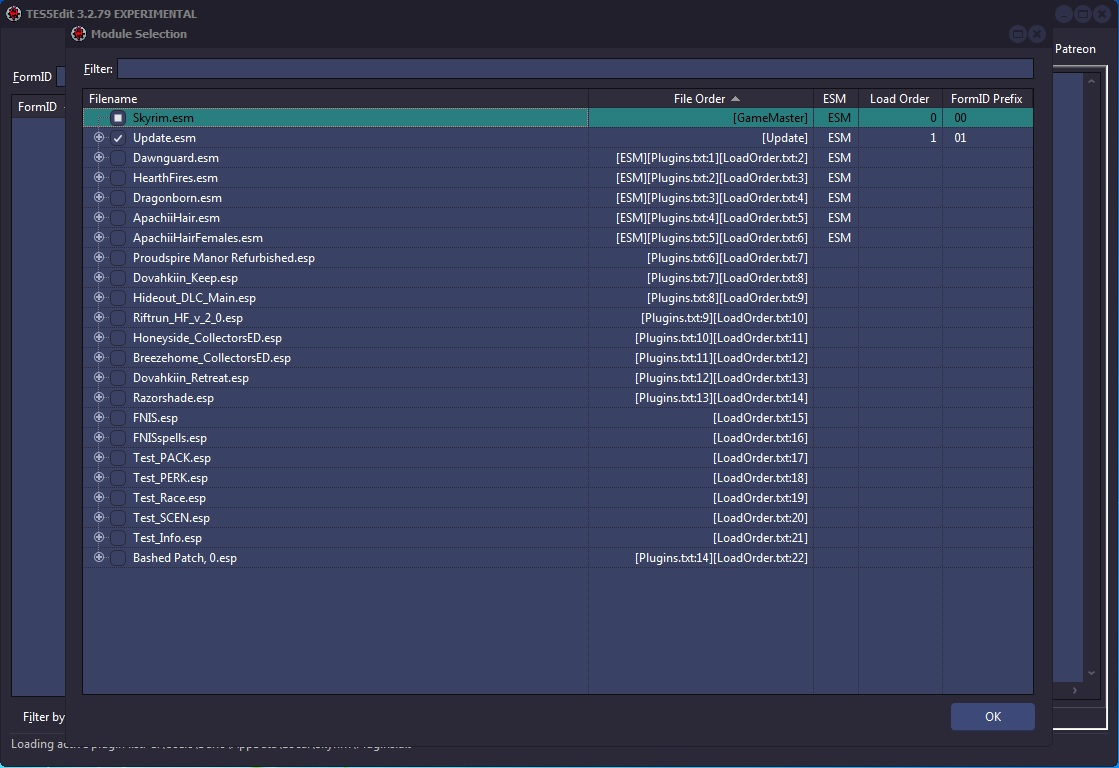
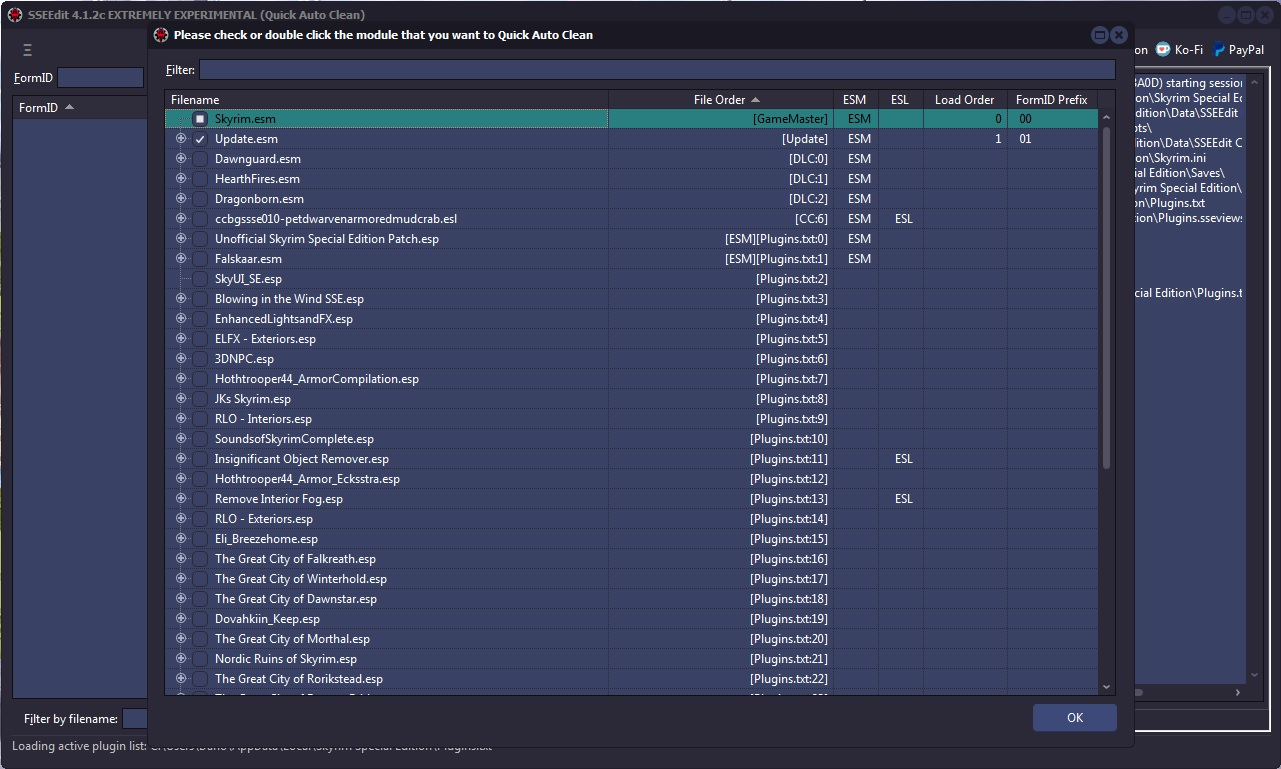
Updated cleaning process

Changed region(s): [[0.0, 0.0, 1.0, 1.0]]

diff --git a/5-mod-cleaning-and-error-checking.html b/5-mod-cleaning-and-error-checking.html
@@ -34,25 +34,33 @@ title: xEdit Cleaning and-Error Checking
             <li>
                 <a href="#s_5-3">5.3 Mod Cleaning Process</a>
                 <ul class="third">
-                    <li><a href="#s_5-3-1">5.3.1 Quick Clean Method</a></li>
-                    <li><a href="#s_5-3-2">5.3.2 Quick Auto Clean Method (Recomended)</a></li>
-                    <li><a href="#s_5-3-3">5.3.3 Sorting Master File Load Orders</a></li>
-                    <li><a href="#s_5-3-4">5.3.4 Using Clean Masters to purge un-used Master File References</a></li>
-                    <li><a href="#s_5-3-5">5.3.5 Listing Master File References from a Specific Plugin</a></li>
+                    <li><a href="#s_5-3-1">5.3.1 Choosing a cleaning method</a></li>
+                    <ul class="fourth">
+                        <li><a href="#s_5-3-1-1">5.3.1.1 Cleaning using a shortcut</a></li>
+                        <li><a href="#s_5-3-1-2">5.3.1.2 Cleaning renaming the EXE</a></li>
+                        <li><a href="#s_5-3-1-3">5.3.1.3 Cleaning using MO2</a></li>
+                        <li><a href="#s_5-3-1-4">5.3.1.4 Cleaning using Vortex</a></li>
+                    </ul>
+                    <li><a href="#s_5-3-2">5.3.2 Selecting a plugin to clean</a></li>
+                    <li><a href="#s_5-3-3">5.3.3 Quick Clean Method</a></li>
+                    <li><a href="#s_5-3-4">5.3.4 Quick Auto Clean Method (Recommended)</a></li>
+                    <li><a href="#s_5-3-5">5.3.5 Sorting Master File Load Orders</a></li>
+                    <li><a href="#s_5-3-6">5.3.6 Using Clean Masters to purge un-used Master File References</a></li>
+                    <li><a href="#s_5-3-7">5.3.7 Listing Master File References from a Specific Plugin</a></li>
                 </ul>
             </li>
             <li><a href="#s_5-4">5.4 Checking For Reference Errors</a></li>
             <li><a href="#s_5-5">5.5 Checking for Circular Leveled Lists</a></li>
-            <li><a href="#Apendix-A">Apendix A: Types of Dirty Edits</a></li>
+            <li><a href="#Apendix-A">Appendix A: Types of Dirty Edits</a></li>
             <li><a href="#Glossary">Glossary</a></li>
         </ul>
     </div>
     <!--/.local-->
 </div>
 <!--/.toc-->
-<section id="_Toc237480264">
-    <h1>5. Mod Cleaning and Error Checking</h1>
-    <div class="content clearfix">
+<section>
+    <div id="Cleaning">
+        <h1>5. Mod Cleaning and Error Checking</h1>
         <div class="level-2" id="s_5-1">
             <h2 class="ctrl">5.1 Preface</h2>
             <div class="content">
@@ -87,7 +95,6 @@ title: xEdit Cleaning and-Error Checking
                 <p class="Note"><strong>Note:</strong> Those not convinced by now to read-through and understand the mod cleaning and merging process are sloppy and should be sacked. For the honorable modders who want to contribute to the community in the right way, read-on.</p>
             </div>
             <!--/.content-->
-            <!--/.content-->
             <div class="level-nav">
                 <a href="#s_5-1" class="drkbtn">Previous Section</a>
                 <a href="#s_5-2" class="drkbtn">Top of this Group</a>
@@ -107,16 +114,117 @@ title: xEdit Cleaning and-Error Checking
                 <p>The records you are trying to clean are the records that override changes to vanilla values. It has always been explained that you can't load additional modules. It can turn "identical to master" into "identical to master, but conflict winner" which the later will not be cleaned from the module. When those are EXACTLY the records you want to clean. So cleaning while having additional modules loaded makes the complete process utterly pointless and a waste of time.</p>
                 <p>Clean one file at a time doesn't mean, load all your files, but only clean one at a time. To be clear, you can not load all your mods all at once and clean just one file at a time. You open xEdit, load the one mod you are going to clean which loads the masters for that file, clean the one mod you loaded, then close xEdit.</p>
                 <p>It has been this way since 3.0.22 of TES5Edit from 2012.</p>
-                <h3>Selecting a plugin to clean</h3>
-                <p>For either of the two procedures you select one, and only one, plugin to clean.</p>
-                <p class="img"><img src="img/clean-plug-select.jpg"></p>
-                <div class="level-nav">
-                    <a href="#s_5-2" class="drkbtn">Previous Section</a>
-                </div>
             </div>
+            <!--/.level-3-->
             <div class="content">
                 <div class="level-3" id="s_5-3-1">
-                    <h3 class="ctrl">5.3.1 Quick Clean Method</h3>
+                    <h3 class="ctrl">5.3.1 Choosing a cleaning method</h3>
+                    <div class="content">
+                        <p>You can use the quick clean method from a desktop shortcut, by renaming the EXE (which can be used as a shortcut), from MO2, or from Vortex.
+                    </div>
+                    <!----------->
+                    <div class="content">
+                        <div class="level-3" id="s_5-3-1-1">
+                            <h3 class="ctrl">5.3.1.1 Cleaning using a shortcut</h3>
+                            <div class="content">
+                                <p>When creating a shortcut go to the folder where you installed xEdit. Right click the file name and choose "Send To" and then "Desktop (create a shortcut)" to create a shortcut.</p>
+                                <p class="img"><img src="img/create shortcut.jpg"></p>
+                                <p>The parameter will go in the "Target" box.</p>
+                                <p class="img"><img src="img/shortcut properties.jpg"></p>
+                                <p>Quick video on how to add the parameter.</p>
+                                <iframe width="420" height="315"
+                                    src="https://www.youtube.com/embed/G5jL5iKfGSk" frameborder="0" allow="accelerometer; autoplay; encrypted-media; gyroscope; picture-in-picture" allowfullscreen>
+                                </iframe>
+                            </div>
+                            <!--/.content-->
+                        </div>
+                        <div class="level-nav">
+                            <a href="#s_5-2" class="drkbtn">Previous Section</a>
+                            <a href="#s_5-3-1" class="drkbtn">Top of this Group</a>
+                        </div>
+                        <!--/.level-nav-->
+                    </div>
+                    <!--/.level-3-->
+                    <!----------->
+                    <div class="content">
+                        <div class="level-3" id="s_5-3-1-2">
+                            <h3 class="ctrl">5.3.1.2 Cleaning renaming the EXE</h3>
+                            <div class="content">
+                                <p>You can add "QAC" to the filename and create a shortcut to use the Quick Clean procedure. For Skyrim SE you would name it SSEEditQAC.exe as shown below.</p>
+                                <p class="img"><img src="img/clean rename exe.jpg"></p>
+                            </div>
+                            <!--/.content-->
+                        </div>
+                        <div class="level-nav">
+                            <a href="#s_5-3-1-1" class="drkbtn">Previous Section</a>
+                            <a href="#s_5-3-1" class="drkbtn">Top of this Group</a>
+                        </div>
+                        <!--/.level-nav-->
+                    </div>
+                    <!--/.level-3-->
+                    <!----------->
+                    <div class="content">
+                        <div class="level-3" id="s_5-3-1-3">
+                            <h3 class="ctrl">5.3.1.3 Cleaning using MO2</h3>
+                            <div class="content">
+                                <p>For MO2 you would add the parameter to the Arguments.</p>
+                                <p class="img"><img src="img/MO2 Application Dark-box.jpg"></p>
+                                <p>For more information you can refer to the STEP <a href="https://wiki.step-project.com/Guide:XEdit#Cleaning_plugins_with_xEdit">Guide:XEdit</a></p>
+                            </div>
+                            <!--/.content-->
+                        </div>
+                        <div class="level-nav">
+                            <a href="#s_5-3-1-2" class="drkbtn">Previous Section</a>
+                            <a href="#s_5-3-1" class="drkbtn">Top of this Group</a>
+                        </div>
+                        <!--/.level-nav-->
+                    </div>
+                    <!--/.level-3-->
+                    <!----------->
+                    <div class="content">
+                        <div class="level-3" id="s_5-3-1-4">
+                            <h3 class="ctrl">5.3.1.4 Cleaning using Vortex</h3>
+                            <div class="content">
+                                <p>For Vortex you would add the parameter to the Command Line box.</p>
+                                <p class="img"><img src="img/vortex launcher-box.jpg"></p>
+                                <p>For more information you can refer to the Nexus Wiki <a href="https://wiki.nexusmods.com/index.php/Tool_Setup:_xEdit">Tool Setup: xEdit</a></p>
+                            </div>
+                            <!--/.content-->
+                        </div>
+                        <div class="level-nav">
+                            <a href="#s_5-3-1-3" class="drkbtn">Previous Section</a>
+                            <a href="#s_5-3-1" class="drkbtn">Top of this Group</a>
+                        </div>
+                        <!--/.level-nav-->
+                    </div>
+                    <!--/.level-3-->
+                    <!----------->
+                </div>
+                <div class="level-nav">
+                    <a href="#s_5-3-1" class="drkbtn">Previous Section</a>
+                </div>
+                <!--/.level-nav-->
+            </div>
+            <!--/.level-3-->
+            <div class="content">
+                <div class="level-3" id="s_5-3-2">
+                    <h3 class="ctrl">5.3.2 Selecting a plugin to clean</h3>
+                    <div class="content">
+                        <p>When selecting a plugin to clean you can check or double click one, and only one, plugin to clean.</p>
+                        <p class="img"><img src="img/clean-plug-select.jpg"></p>
+                    </div>
+                    <!--/.content-->
+                </div>
+                <div class="level-nav">
+                    <a href="#s_5-3" class="drkbtn">Previous Section</a>
+                    <a href="#s_5-3" class="drkbtn">Top of this Group</a>
+                </div>
+                <!--/.level-nav-->
+            </div>
+            <!--/.level-3-->
+            <div class="content">
+                <div class="level-3" id="s_5-3-3">
+                    <h3 class="ctrl">5.3.3 Quick Clean Method</h3>
                     <div class="content">
                         <p>This method is for those who want to be more involved in the process.</p>
                         <p>This procedure cleans 2 times. Some DLC requires that they are cleaned twice because after saving the cleaned mod's records are updated.  The quick clean procedure does not save in between each step. When you close xEdit you will have the option to save the file with the changes or cancel. You will have to repeat this step for any DLC that requires multiple cleanings.</p>
@@ -125,11 +233,15 @@ title: xEdit Cleaning and-Error Checking
                     </div>
                 </div>
                 <div class="level-nav">
-                    <a href="#s_5-3" class="drkbtn">Previous Section</a>
+                    <a href="#s_5-3-2" class="drkbtn">Previous Section</a>
+                    <a href="#s_5-3" class="drkbtn">Top of this Group</a>
                 </div>
-                <!--/.level-3-->
-                <div class="level-3" id="s_5-3-2">
-                    <h3 class="ctrl">5.3.2 Quick Auto Clean Method (Recomended)</h3>
+                <!--/.level-nav-->
+            </div>
+            <!--/.level-3-->
+            <div class="content">
+                <div class="level-3" id="s_5-3-4">
+                    <h3 class="ctrl">5.3.4 Quick Auto Clean Method (Recommended)</h3>
                     <div class="content">
                         <p>This is the preferred and recommended method. You will have to close xEdit once the process terminates but everything is automatic.</p>
                         <p>This procedure cleans 3 times and saves in between each step. Some DLC requires that they are cleaned twice because after saving the cleaned mod's records are updated.  Because the quick auto clean procedure saves between each step, you no longer need to clean DLC multiple times with the feature. However, this process is automatic and you will not be able to stop it. You will only be able to review the changes once the process is completed.</p>
@@ -138,13 +250,15 @@ title: xEdit Cleaning and-Error Checking
                         <p>For quick auto clean you will not be given an option to save. When finished you can review the changes, copy the LOOT info, and see any errors that occurred. For quick clean you will be presented with an option to save the plugin or cancel.</p>
                     </div>
                 </div>
-                    <div class="level-nav">
-                        <a href="#s_5-3-1" class="drkbtn">Previous Section</a>
-                        <a href="#s_5-3" class="drkbtn">Top of this Group</a>
-                    </div>
-                <!--/.level-3-->
-                <div class="level-3" id="s_5-3-3">
-                    <h3 class="ctrl">5.3.3 Sorting Master File Load Orders</h3>
+                <div class="level-nav">
+                    <a href="#s_5-3-3" class="drkbtn">Previous Section</a>
+                    <a href="#s_5-3" class="drkbtn">Top of this Group</a>
+                </div>
+            </div>
+            <!--/.level-3-->
+            <div class="content">
+                <div class="level-3" id="s_5-3-5">
+                    <h3 class="ctrl">5.3.5 Sorting Master File Load Orders</h3>
                     <div class="content">
                         <p>There are times in which the load order of Master files gets switched around when you add/change load orders.  The, "Sort Masters" function corrects the master file load order in the Plugins MASTer list, and correctly renumbers all file specific FormIDs.</p>
                         <p class="img"><img src="img/image140.jpg"></p>
@@ -153,16 +267,18 @@ title: xEdit Cleaning and-Error Checking
                         <h3 class="ctrl">When should you use Sort Masters?</h3>
                         <p>According to Elminster: If a plugin has two masters that are siblings (one doesn't have the other as a master, so they can load in either order) and they are overriding the same record from an earlier master (e.g. both are overriding a record from the main game master file), then loading them in a different order will result in a different version of the overridden record being the "winner". But the plugin might depend on the winner being the one indicated by the order in which it references the masters.</p>
                     </div>
-                    <!--/.content-->
-                    <div class="level-nav">
-                        <a href="#s_5-3-2" class="drkbtn">Previous Section</a>
-                        <a href="#s_5-3" class="drkbtn">Top of this Group</a>
-                    </div>
-                    <!--/.level-nav-->
                 </div>
-                <!--/.level-3-->
-                <div class="level-3" id="s_5-3-4">
-                    <h3 class="ctrl">5.3.4 Using Clean Masters to purge un-used Master File References</h3>
+                <!--/.content-->
+                <div class="level-nav">
+                    <a href="#s_5-3-4" class="drkbtn">Previous Section</a>
+                    <a href="#s_5-3" class="drkbtn">Top of this Group</a>
+                </div>
+                <!--/.level-nav-->
+            </div>
+            <!--/.level-3-->
+            <div class="content">
+                <div class="level-3" id="s_5-3-6">
+                    <h3 class="ctrl">5.3.6 Using Clean Masters to purge un-used Master File References</h3>
                     <div class="content">
                         <p>Master File References are links or references from your Plugin to any Master files (ESMs) that it depends on to run, and stores the list in a record called, "MAST". Most Plugins have the game's ESM file in their master list, but you can have many such links in a plugin. For example for Fallout3 each file will start with Fallout3.esm. If when you create a <a href="4-conflict-detection-and-resolution.html#s_4-8">Merged Patch</a> with xEdit, it puts links to many or nearly-all of the master files in your mod list. It is possible in some cases for a Plugin to contain a link to a master file that it does not need.</p>
                         <p>For example, suppose the Plugin we are cleaning had MasterB.esm in its MASTer list but it doesn't contain any overrides for, or makes any other references to, records from MasterB.esm. In that case we would not need nor want MasterB.esm listed in the MASTer record for our Plugin! This function detects any un-used MASTer references in the Plugin we are cleaning, and removes them from the MASTer list. xEdit also renumbers any file specific FormIDs in the Plugin to ensure that it is cleaned properly.</p>
@@ -174,16 +290,18 @@ title: xEdit Cleaning and-Error Checking
                         <p>At this point you should save your mod and load it up in-game to make sure that everything is still happy.</p>
                         <p class="Note"><strong>Note:</strong> You should not remove masters from other people's mods! You will drastically effect the mod and it will no longer perform the changes the author intended. It is the responsibility of each mod author to remove unused masters. You can request that the mod author provide another version. Please be respectful if they refuse to remove masters as some mod authors intentionally override specific records in order for the mod to effect the game the way they intended.</p>
                     </div>
-                    <!--/.content-->
-                    <div class="level-nav">
-                        <a href="#s_5-3-3" class="drkbtn">Previous Section</a>
-                        <a href="#s_5-3" class="drkbtn">Top of this Group</a>
-                    </div>
-                    <!--/.level-nav-->
                 </div>
-                <!--/.level-3-->
-                <div class="level-2" id="s_5-3-5">
-                    <h3 class="ctrl">5.3.5 Listing Master File References from a specific plugin</h3>
+                <!--/.content-->
+                <div class="level-nav">
+                    <a href="#s_5-3-5" class="drkbtn">Previous Section</a>
+                    <a href="#s_5-3" class="drkbtn">Top of this Group</a>
+                </div>
+                <!--/.level-nav-->
+            </div>
+            <!--/.level-3-->
+            <div class="content">
+                <div class="level-2" id="s_5-3-7">
+                    <h3 class="ctrl">5.3.7 Listing Master File References from a specific plugin</h3>
                     <div class="content">
                         <p class="img"><img src="img/list-ref-master.jpg"></p>
                         <p>When using Clean Masters if references are still in use the Master will not be removed from the master list. In order to list references we will be using a script named <code>List records referencing specific plugin.pas</code>. This may take a while depending on how many references there are in the Plugin.</p>
@@ -192,18 +310,18 @@ title: xEdit Cleaning and-Error Checking
                         <p>A notification will appear in the messages tab when the operation is complete. All of the records referencing the plugin will be listed. You will need to properly deal with all the references before xEdit will remove the master. This could mean changing a reference to reference another master or removing the reference entirely.</p>
                         <p class="Note"><strong>Note:</strong> You should not remove masters from other people's mods! You will drastically effect the mod and it will no longer perform the changes the author intended. It is the responsibility of each mod author to remove unused masters. You can request that the mod author provide another version. Please be respectful if they refuse to remove masters as some mod authors intentionally override specific records in order for the mod to effect the game the way they intended.</p>
                     </div>
-                    <!--/.content-->
-                    <div class="level-nav">
-                        <a href="#s_5-3-4" class="drkbtn">Previous Section</a>
-                        <a href="#s_5-3" class="drkbtn">Top of this Group</a>
-                    </div>
-                    <!--/.level-nav-->
                 </div>
-                <!--/.level-3-->
+                <!--/.content-->
+                <div class="level-nav">
+                    <a href="#s_5-3-6" class="drkbtn">Previous Section</a>
+                    <a href="#s_5-3" class="drkbtn">Top of this Group</a>
+                </div>
+                <!--/.level-nav-->
             </div>
-            <!--/.content-->
+            <!--/.level-3-->
             <div class="level-nav">
-                <a href="#s_5-1" class="drkbtn">Previous Group</a>
+                <a href="#s_5-2" class="drkbtn">Previous Group</a>
+                <a href="#s_5-3" class="drkbtn">Top of this Group</a>
             </div>
             <!--/.level-nav-->
         </div>
